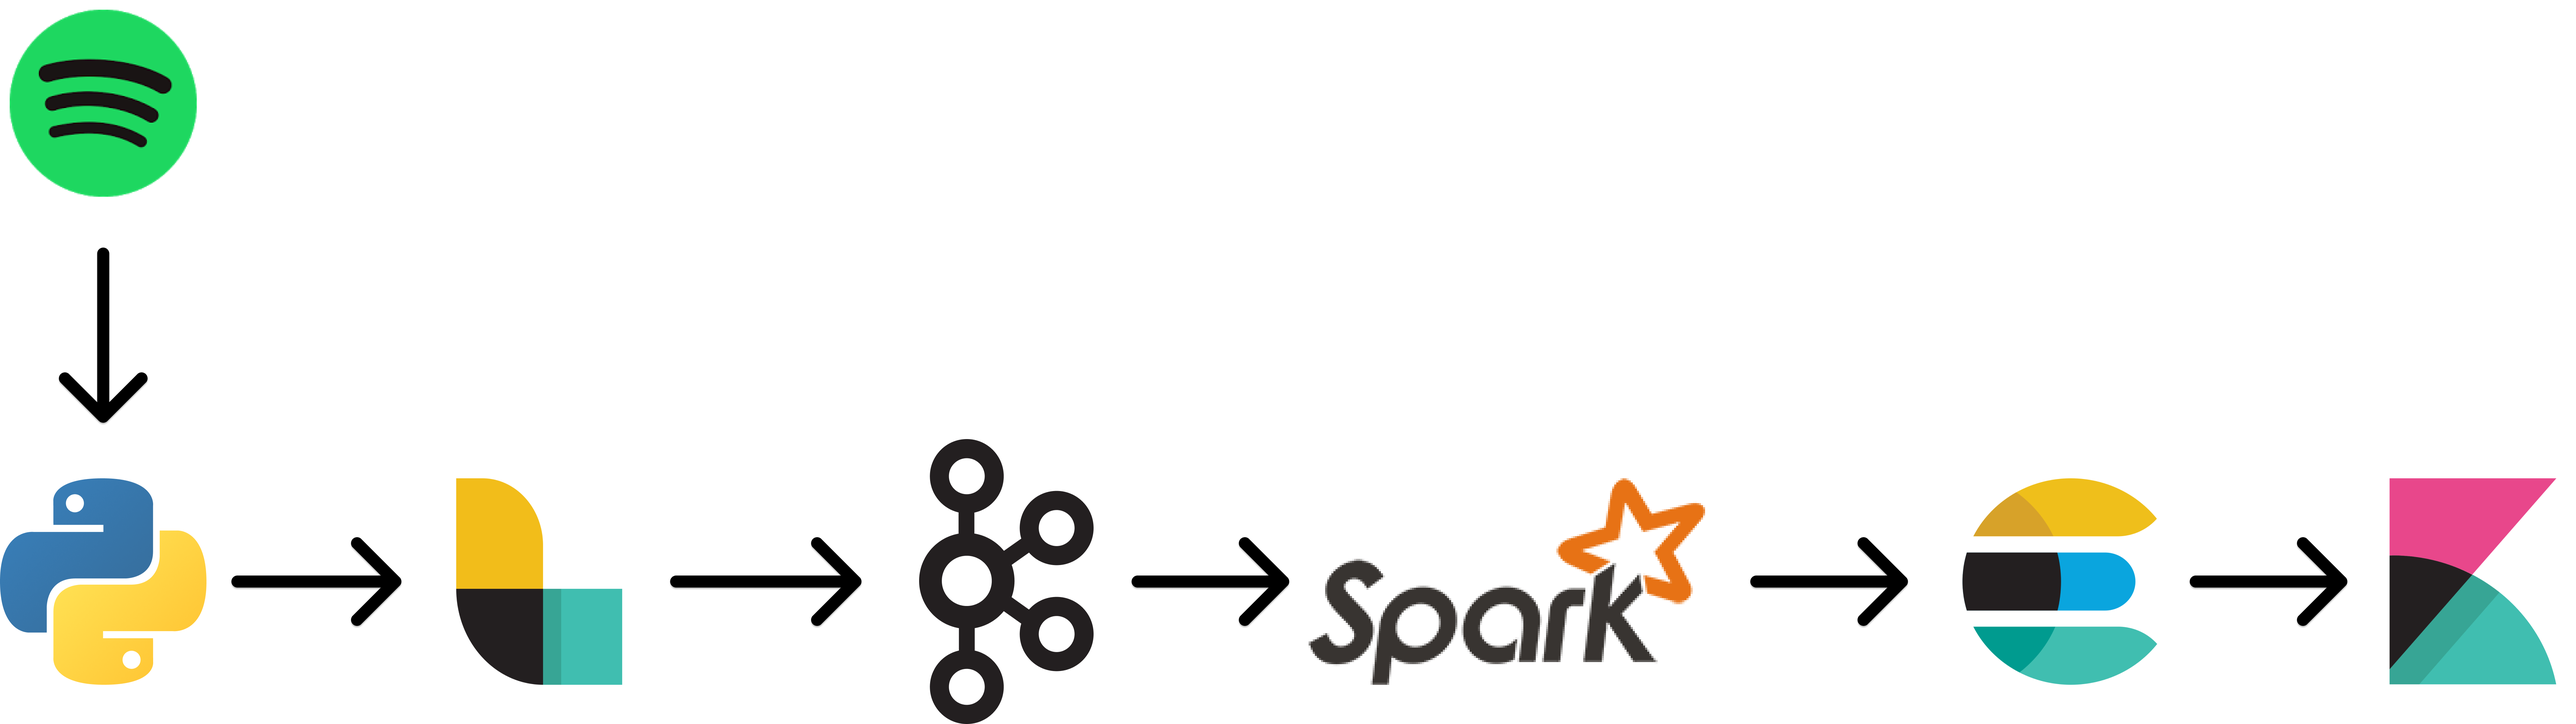
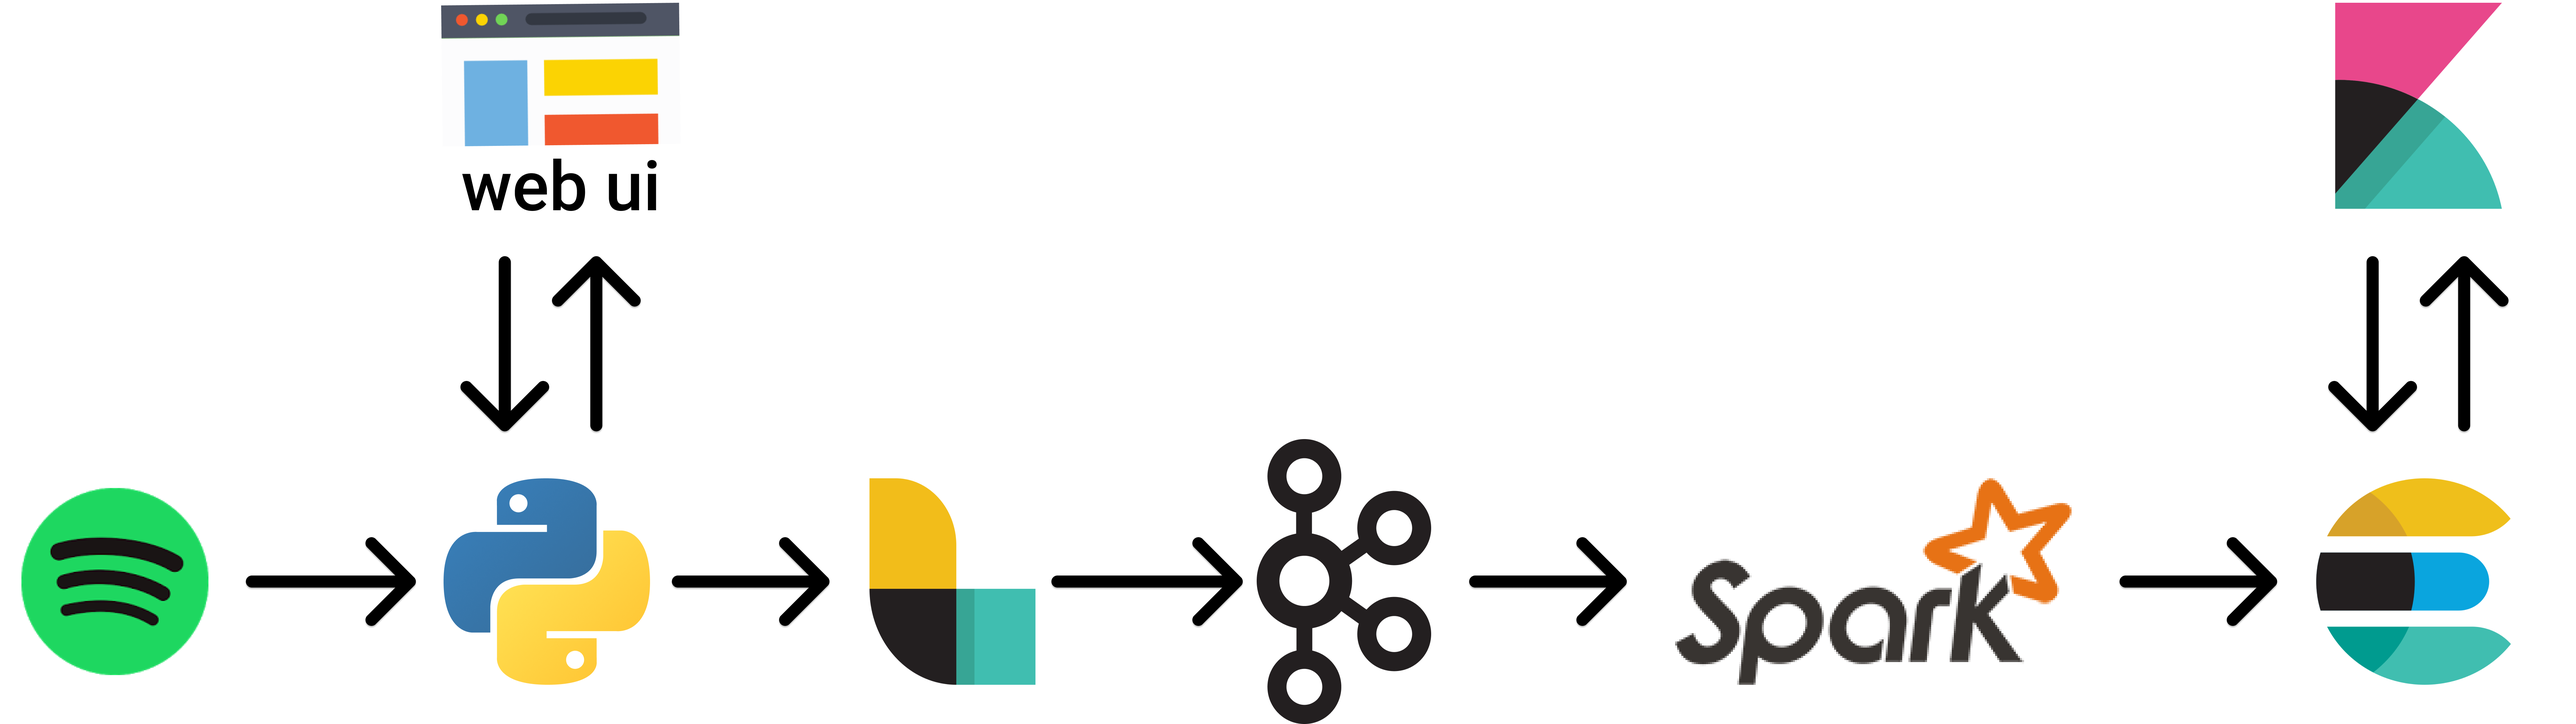
presentazione aggiornata

diff --git a/docs/presentazione.slides.html b/docs/presentazione.slides.html
@@ -14712,7 +14712,22 @@ Alto livello: una serie di indici per classificare il brano, che forniscono info
 </div>
 <div class="jp-InputArea jp-Cell-inputArea"><div class="jp-InputPrompt jp-InputArea-prompt">
 </div><div class="jp-RenderedHTMLCommon jp-RenderedMarkdown jp-MarkdownOutput " data-mime-type="text/markdown">
-<h2 id="Python">Python<a class="anchor-link" href="#Python">&#182;</a></h2><p>Per eseguire richieste all'api di spotify ho usato una libreria apposita di python: <em>spotipy</em>.
+<h2 id="Web-ui">Web ui<a class="anchor-link" href="#Web-ui">&#182;</a></h2><p>Ho costruito un piccolo front-end per fare il login con le credenziali di un client spotify, ed eseguire le query e ottenere una lista dei primi 10 risultati.
+Cliccando sul titolo, si va alla pagina spotify corrispondente. Possiamo vedere il risultato come json, e inviarlo a logstash.
+Il codice python è servito da flask, sulla porta 5001.</p>
+
+</div>
+</div>
+</div>
+</div></section></section><section><section>
+<div class="jp-Cell jp-MarkdownCell jp-Notebook-cell">
+<div class="jp-Cell-inputWrapper">
+<div class="jp-Collapser jp-InputCollapser jp-Cell-inputCollapser">
+</div>
+<div class="jp-InputArea jp-Cell-inputArea"><div class="jp-InputPrompt jp-InputArea-prompt">
+</div><div class="jp-RenderedHTMLCommon jp-RenderedMarkdown jp-MarkdownOutput " data-mime-type="text/markdown">
+<h2 id="Python">Python<a class="anchor-link" href="#Python">&#182;</a></h2><p>Dietro la pagna web, sta uno script producer.py, che esegue le query a spotify.
+Per eseguire richieste all'api di spotify ho usato una libreria apposita di python: <em>spotipy</em>.
 Prima di poter fare richieste però è necessario prima però creare un'applicazione sulla dashboard di spotify developer, e connettere lo script ad essa con <em>client id</em> e <em>secret</em>.
 Successivamente si possono effettuare richieste del tipo:<br>
 <code>sp.search("Timber", limit=4)</code> Restituisce un json con i primi 4 risultati della ricerca "Timber"<br>
@@ -14768,6 +14783,13 @@ Creo 2 dataframe di training, nel primo (<em>train1</em> ) carico il dataset csv
 Il secondo dataframe di training (train_inverse), invece lo creo basandomi sul primo, ad ogni valore mappo 1 - valore in <em>train1</em> in modo da avere un set fittizio di canzoni con valori esattamente opposti a quelle più popolari.
 Quindi aggiungo a entrambi una colonna impostata a 1 per tutto <em>train1</em> e a 0 per tutto train_inverse</p>
 <p>Per ogni brano o insieme di brani in arrivo, eseguo le operazioni in pipeline, che aggiungeranno la colonna di <em>prediction</em>, che avrà un valore in base a quanto gli indici di speechness, valence, ecc.. saranno simili a quelli delle top songs.</p>
+<p>Quindi invio il risultato ad elasticsearch con:</p>
+
+<pre><code>(df.writeStream
+    .option("checkpointLocation", "/temp/tmp/checkpoints")
+    .format("es")
+    .start(es_index)
+    .awaitTermination())</code></pre>
 
 </div>
 </div>
@@ -14779,8 +14801,7 @@ Quindi aggiungo a entrambi una colonna impostata a 1 per tutto <em>train1</em> e
 </div>
 <div class="jp-InputArea jp-Cell-inputArea"><div class="jp-InputPrompt jp-InputArea-prompt">
 </div><div class="jp-RenderedHTMLCommon jp-RenderedMarkdown jp-MarkdownOutput " data-mime-type="text/markdown">
-<h2 id="Per-avviare">Per avviare<a class="anchor-link" href="#Per-avviare">&#182;</a></h2>
-<pre><code>./start.sh</code></pre>
+<h2 id="Per-avviare">Per avviare<a class="anchor-link" href="#Per-avviare">&#182;</a></h2><p>Dalla directory principale del progetto, eseguire lo script ./start.sh</p>
 
 </div>
 </div>
@@ -14792,8 +14813,8 @@ Quindi aggiungo a entrambi una colonna impostata a 1 per tutto <em>train1</em> e
 </div>
 <div class="jp-InputArea jp-Cell-inputArea"><div class="jp-InputPrompt jp-InputArea-prompt">
 </div><div class="jp-RenderedHTMLCommon jp-RenderedMarkdown jp-MarkdownOutput " data-mime-type="text/markdown">
-<p>Esso eseguirà: docker-compose -d, avviando i container di logstash, kafka, zookeeper, spark, elastic e kibana
-Ed eseguirà il container python con lo script per effettuare le query a spotify e ottenere i brani con le info su cui operare</p>
+<p>Esso scaricherà i file necessari, ovvero solo l'archivio di spark-hadoop, per costruire la docker image.
+Dopodichè eseguirà: docker-compose -d, avviando i container della ui, logstash, kafka, zookeeper, spark, elastic e kibana.</p>
 <h5 id="Opzionale:">Opzionale:<a class="anchor-link" href="#Opzionale:">&#182;</a></h5><p>Se si vuole aggiornare il training set di canzoni, su cui spark basa le predizioni, basta uncommentare le righe specifiche in start.sh</p>
 
 </div>
